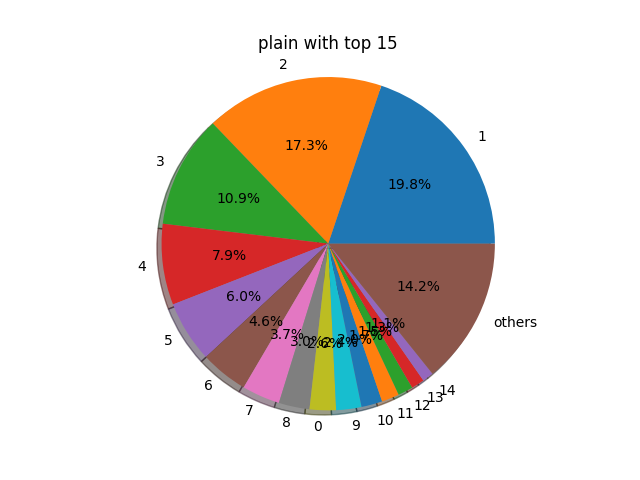
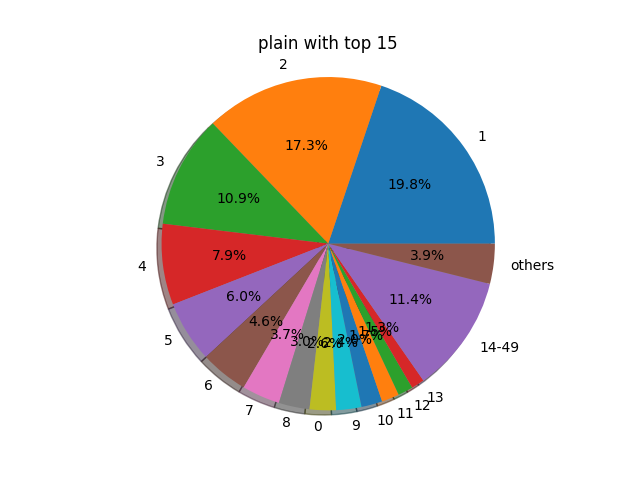
show 14-49 in pie figure.

diff --git a/src/analyzer_brotli.py b/src/analyzer_brotli.py
@@ -261,12 +261,29 @@ WHERE s.decode_type = mode.decode_type
             brotliDecodeSuccessCount = 5726071
         print(f"plainDecodeSuccessCount={plainDecodeSuccessCount}, brotliDecodeSuccessCount={brotliDecodeSuccessCount}")
 
+        sep = 50
         top = min(15, len(plainY))
         plainYPercent = [ x * 100.0 / plainDecodeSuccessCount for x in plainY]
-        plainYPercentTop = plainYPercent[0:top]
-        plainYPercentTop.append(np.sum(plainYPercent[top:]))
-        plainYPercentTopLabel = plainX[0:top]
-        plainYPercentTopLabel.append("others")
+        plainYPercentTop = plainYPercent[0:top - 1]
+        plainYPercentTopLabel = plainX[0:top - 1]
+
+        start = plainX[top - 1]
+        plainRangeCount = 0
+        largeThanSepCount = 0
+        for index in range(len(plainX)):
+            x = plainX[index]
+            if x >= start and x < sep:
+                plainRangeCount += plainY[index]
+            elif x >= sep:
+                largeThanSepCount += plainY[index]
+        
+        plainYPercentTopLabel.append(f"{start}-{sep - 1}")
+        plainYPercentTop.append(plainRangeCount * 100.0 / plainDecodeSuccessCount)
+        
+        if largeThanSepCount > 0:
+            plainYPercentTopLabel.append("others")
+            plainYPercentTop.append(largeThanSepCount * 100.0 / plainDecodeSuccessCount)
+
         fig1, ax1 = plt.subplots()
         ax1.pie(plainYPercentTop, labels=plainYPercentTopLabel, autopct='%1.1f%%', shadow=True, startangle=0)
         ax1.axis('equal')  # Equal aspect ratio ensures that pie is drawn as a circle.
@@ -277,7 +294,7 @@ WHERE s.decode_type = mode.decode_type
         # 因为brotli解析分散的比较多，所以先分组，再画图
         cursor.execute(f"""SELECT min(decode_time), max(decode_time), sum(decode_times) FROM output 
             WHERE decode_type = "brotli" 
-            GROUP BY (decode_time / 50)
+            GROUP BY (decode_time / {sep})
             ORDER BY decode_times DESC
             LIMIT {top - 1}"""
         )
